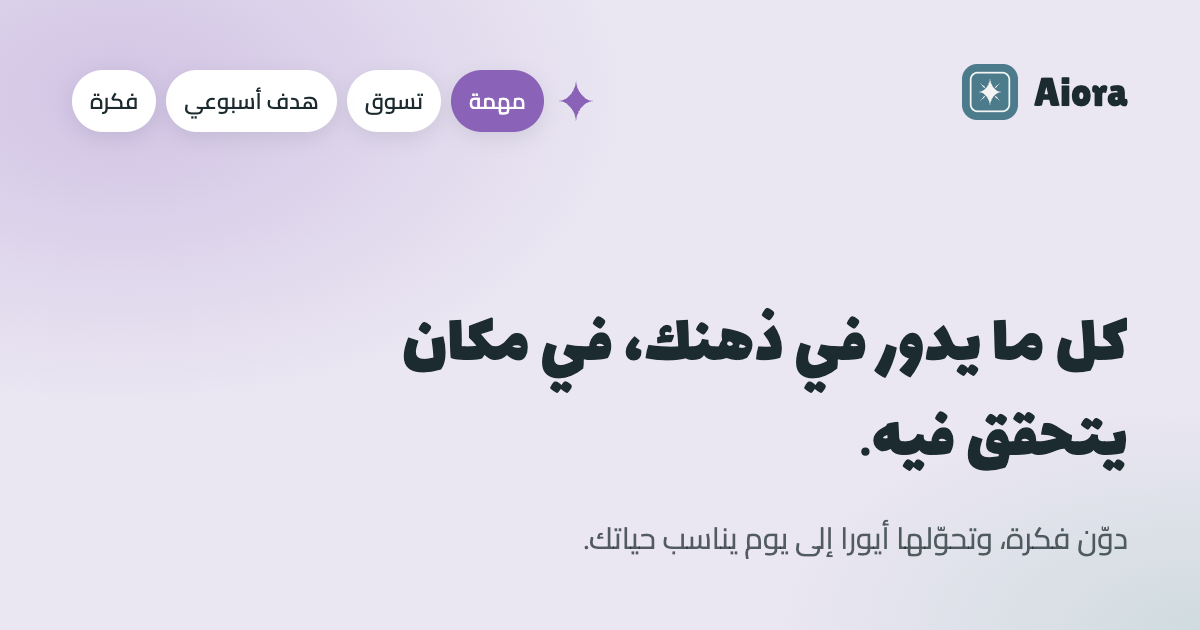
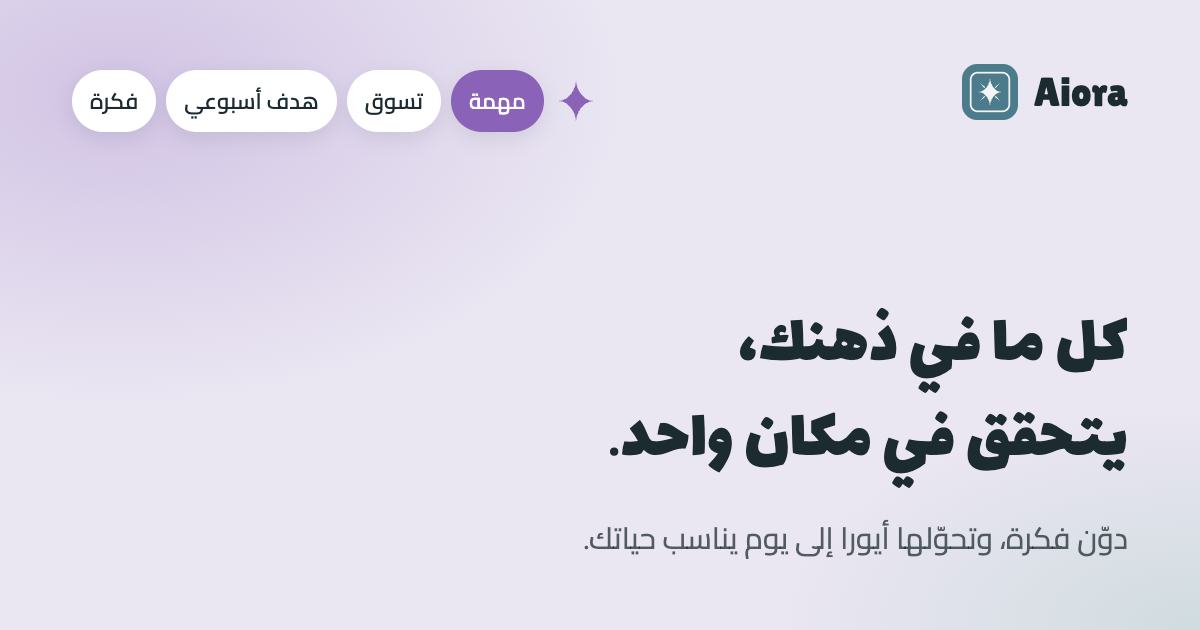
improve arabic headline

Changed region(s): [[0.3392, 0.4825, 0.8325, 0.6333], [0.4933, 0.6635, 0.7708, 0.7841]]

diff --git a/src/i18n/site/ar.ts b/src/i18n/site/ar.ts
@@ -4,7 +4,7 @@
 
 export default {
   meta: {
-    title: 'أيورا — كل ما يدور في ذهنك، في مكان يتحقق فيه',
+    title: 'أيورا — كل ما في ذهنك، يتحقق في مكان واحد',
     description: 'دوّن ما في بالك، ورتّبه أيورا إلى مهام وتسوّق وأهداف، ويبني لك يومًا يناسب حياتك. مجاني على iPhone وأندرويد.',
   },
   nav: {
@@ -152,7 +152,7 @@ export default {
     { q: 'ما اللغات التي يدعمها أيورا؟', a: 'العربية، والإنجليزية، والفرنسية، والإسبانية، والروسية، والتركية، والسواحيلية، في التطبيق وفي هذا الموقع.' },
   ],
   footer: {
-    tagline: 'كل ما يدور في ذهنك، في مكان يتحقق فيه.',
+    tagline: 'كل ما في ذهنك، يتحقق في مكان واحد.',
     product: 'المنتج',
     help: 'المساعدة',
     legal: 'قانوني',
